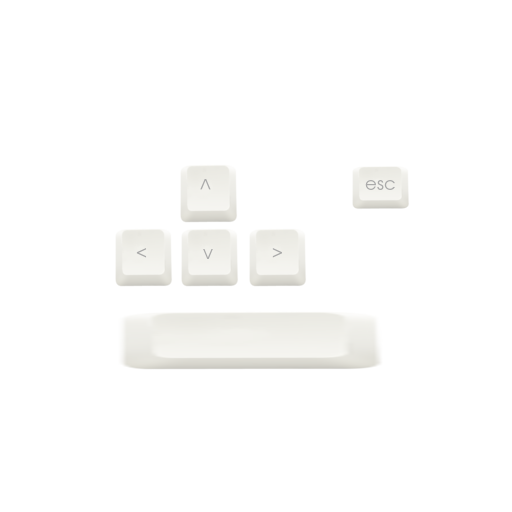
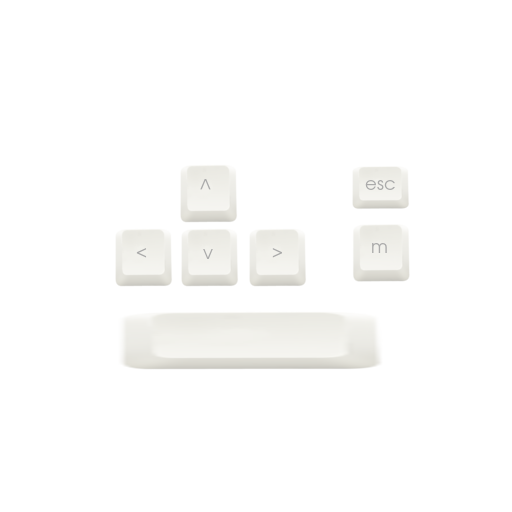
added mute button

Changed region(s): [[0.6875, 0.4375, 0.8125, 0.5625]]

diff --git a/js/main.js b/js/main.js
@@ -91,6 +91,8 @@ function mainloop(){
   // Used to tell if escape has just been pressed
   pause = document.keyboard.wasPressed(27) ? !pause:pause;
 
+  // Mute game if 'm' key pressed
+  createjs.Sound.muted = document.keyboard.wasPressed(77) ? !createjs.Sound.muted:createjs.Sound.muted;
 
   // Do game stuff if unpaused
   if(!pause){
